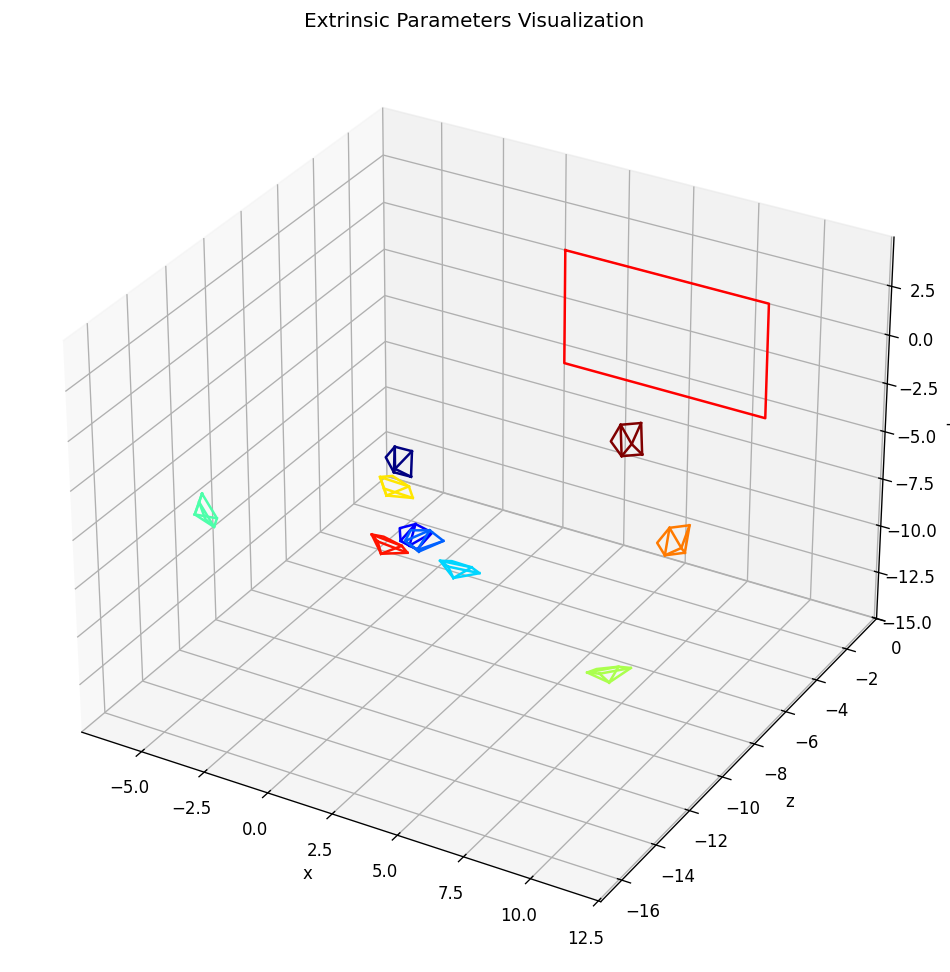
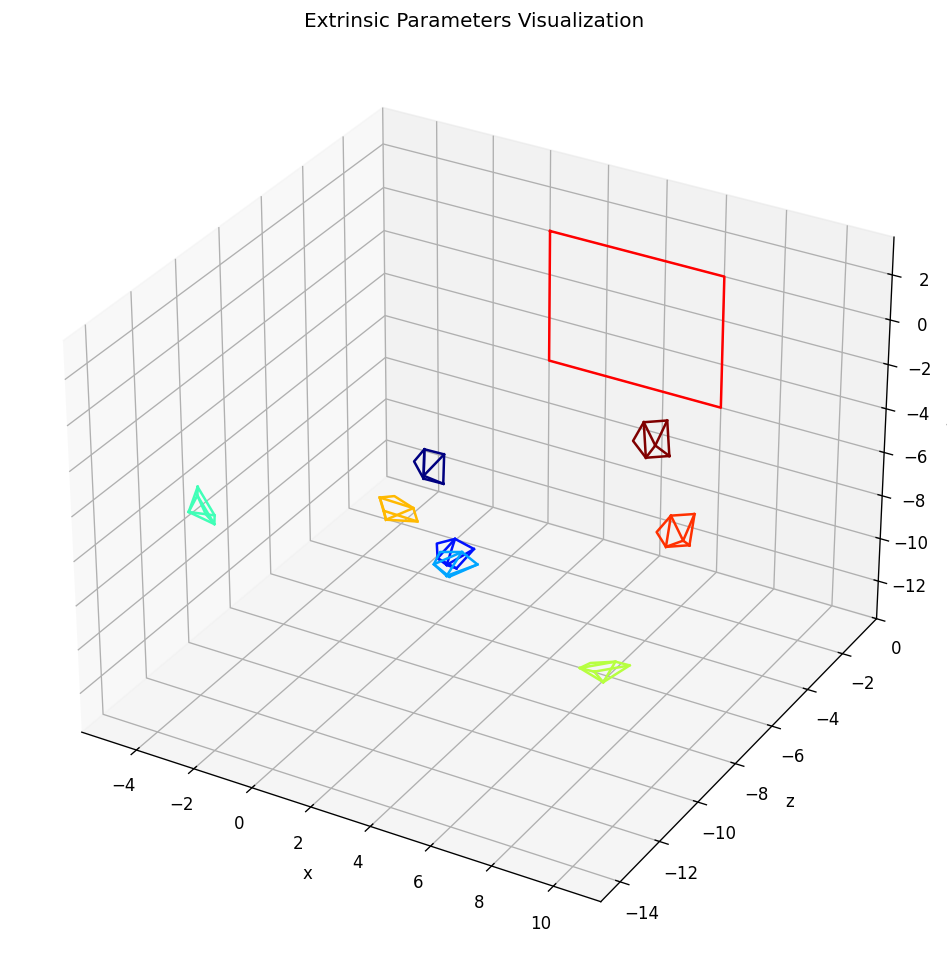
Use portrait TA images only, fix board size in plots

diff --git a/camera_calibration.py b/camera_calibration.py
@@ -19,12 +19,19 @@ objpoints = [] # 3d points in real world space
 imgpoints = [] # 2d points in image plane.
 
 # Make a list of calibration images
-images = glob.glob('data/*.jpg')
+images = sorted(glob.glob('data/*.jpg'))
 
 # Step through the list and search for chessboard corners
 print('Start finding chessboard corners...')
 for idx, fname in enumerate(images):
     img = cv2.imread(fname)
+
+    # 0003 and 0008 are landscape, the rest are portrait.
+    # One K can't fit both orientations, so use portrait only.
+    if img.shape[0] < img.shape[1]:
+        print('skip landscape image', fname)
+        continue
+
     gray = cv2.cvtColor(img, cv2.COLOR_BGR2GRAY)
 
     # Find the chessboard corners
@@ -216,7 +223,8 @@ cam_width = 0.064/0.1
 cam_height = 0.032/0.1
 scale_focal = 1600
 # chess board setting
-board_width = 8
+# 7x7 corners span 6x6 squares
+board_width = 6
 board_height = 6
 square_size = 1
 # display

diff --git a/camera_calibration_smartphone.py b/camera_calibration_smartphone.py
@@ -150,7 +150,8 @@ ax = fig.add_subplot(111, projection='3d')
 cam_width = 0.064 / 0.1
 cam_height = 0.032 / 0.1
 scale_focal = 1600
-board_width = 8
+# 7x7 corners span 6x6 squares
+board_width = 6
 board_height = 6
 square_size = 1
 

diff --git a/README.md b/README.md
@@ -33,8 +33,10 @@ Each script prints K and the mean reprojection error, then saves a 3D plot of th
 
 | Dataset | Images used | fx | fy | cx | cy | Error (px) |
 |---|---|---|---|---|---|---|
-| TA images | 10 / 10 | 3389.37 | 3340.26 | 1478.33 | 1419.91 | 19.74 |
+| TA images | 8 / 10 | 3015.08 | 3008.33 | 1470.25 | 1893.73 | 3.78 |
 | Phone images | 8 / 10 | 2905.41 | 2936.06 | 853.31 | 1573.69 | 9.29 |
+
+`data/0003.jpg` and `data/0008.jpg` are landscape and the other TA images are portrait. One K can't fit both orientations, so these two are skipped.
 
 No corners are found in `my_data/00.jpg` and `my_data/06.jpg`, so these two are skipped.
 
